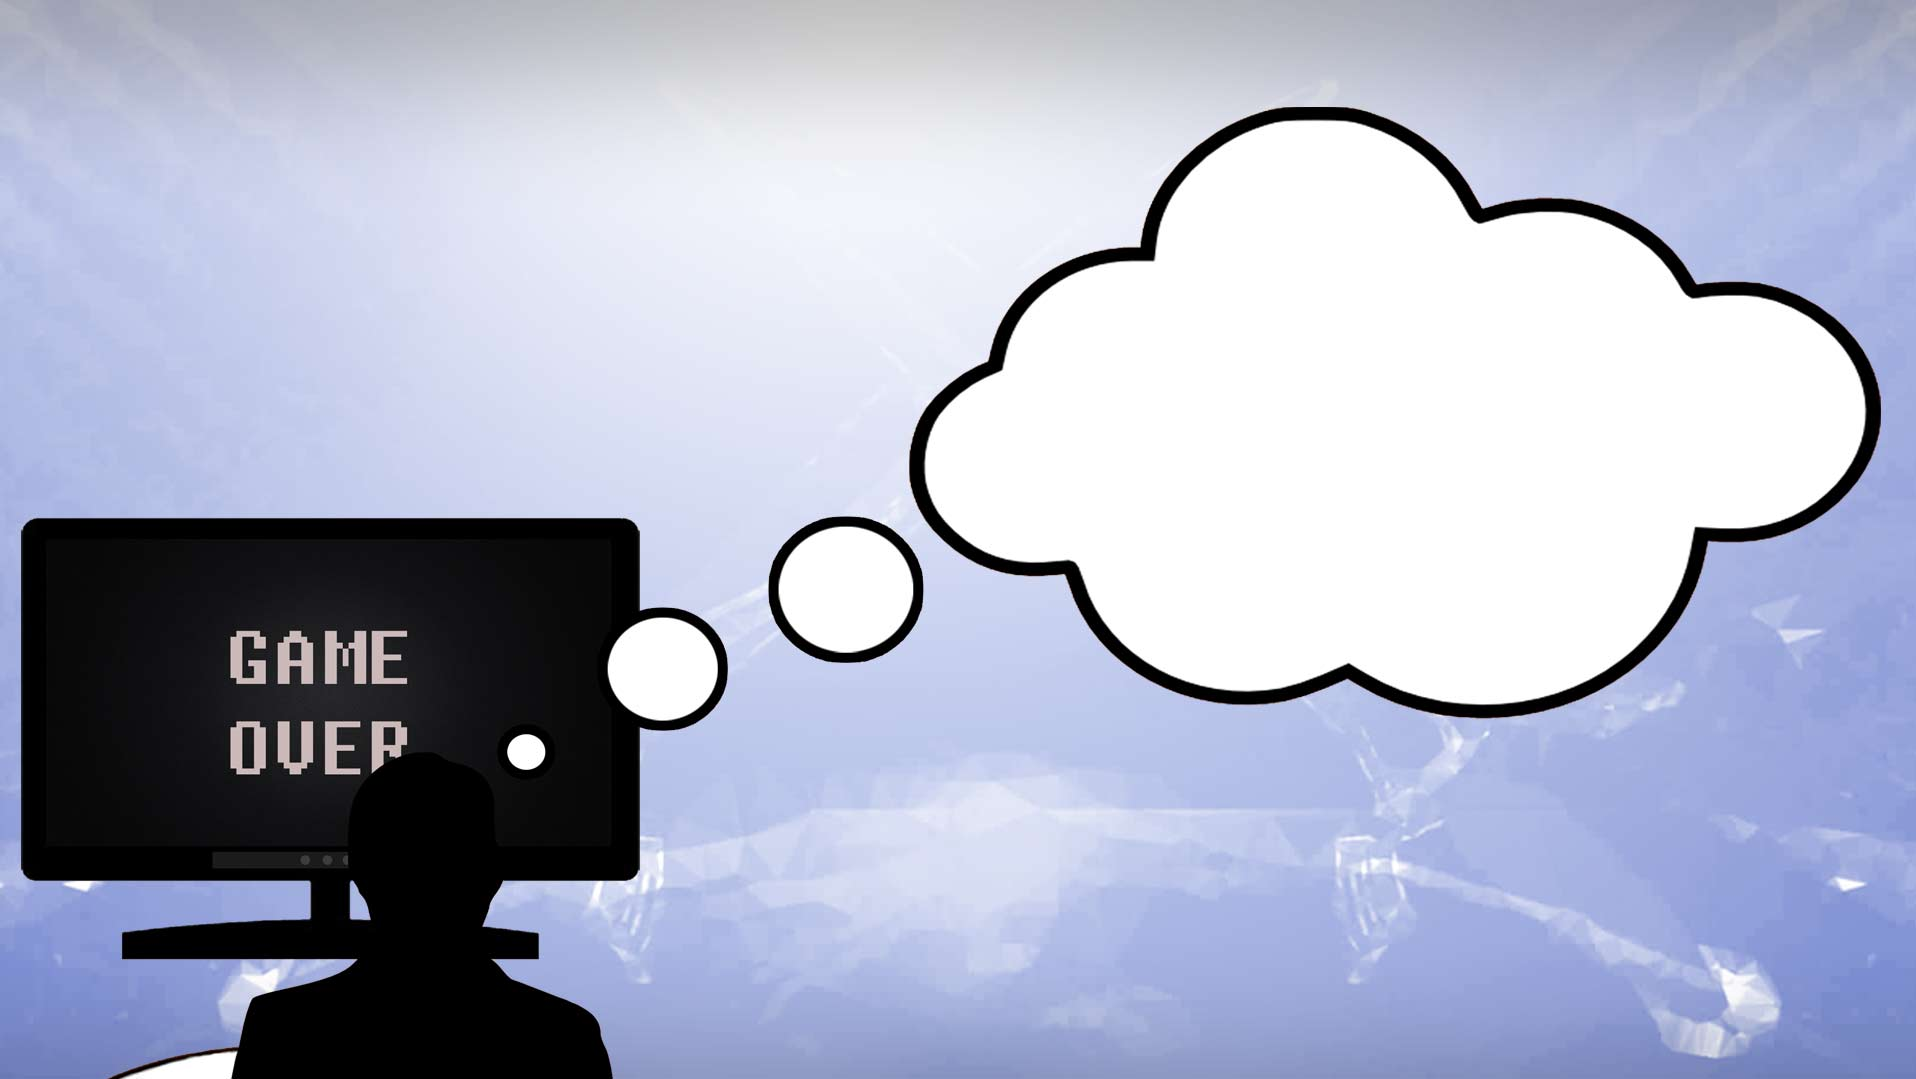
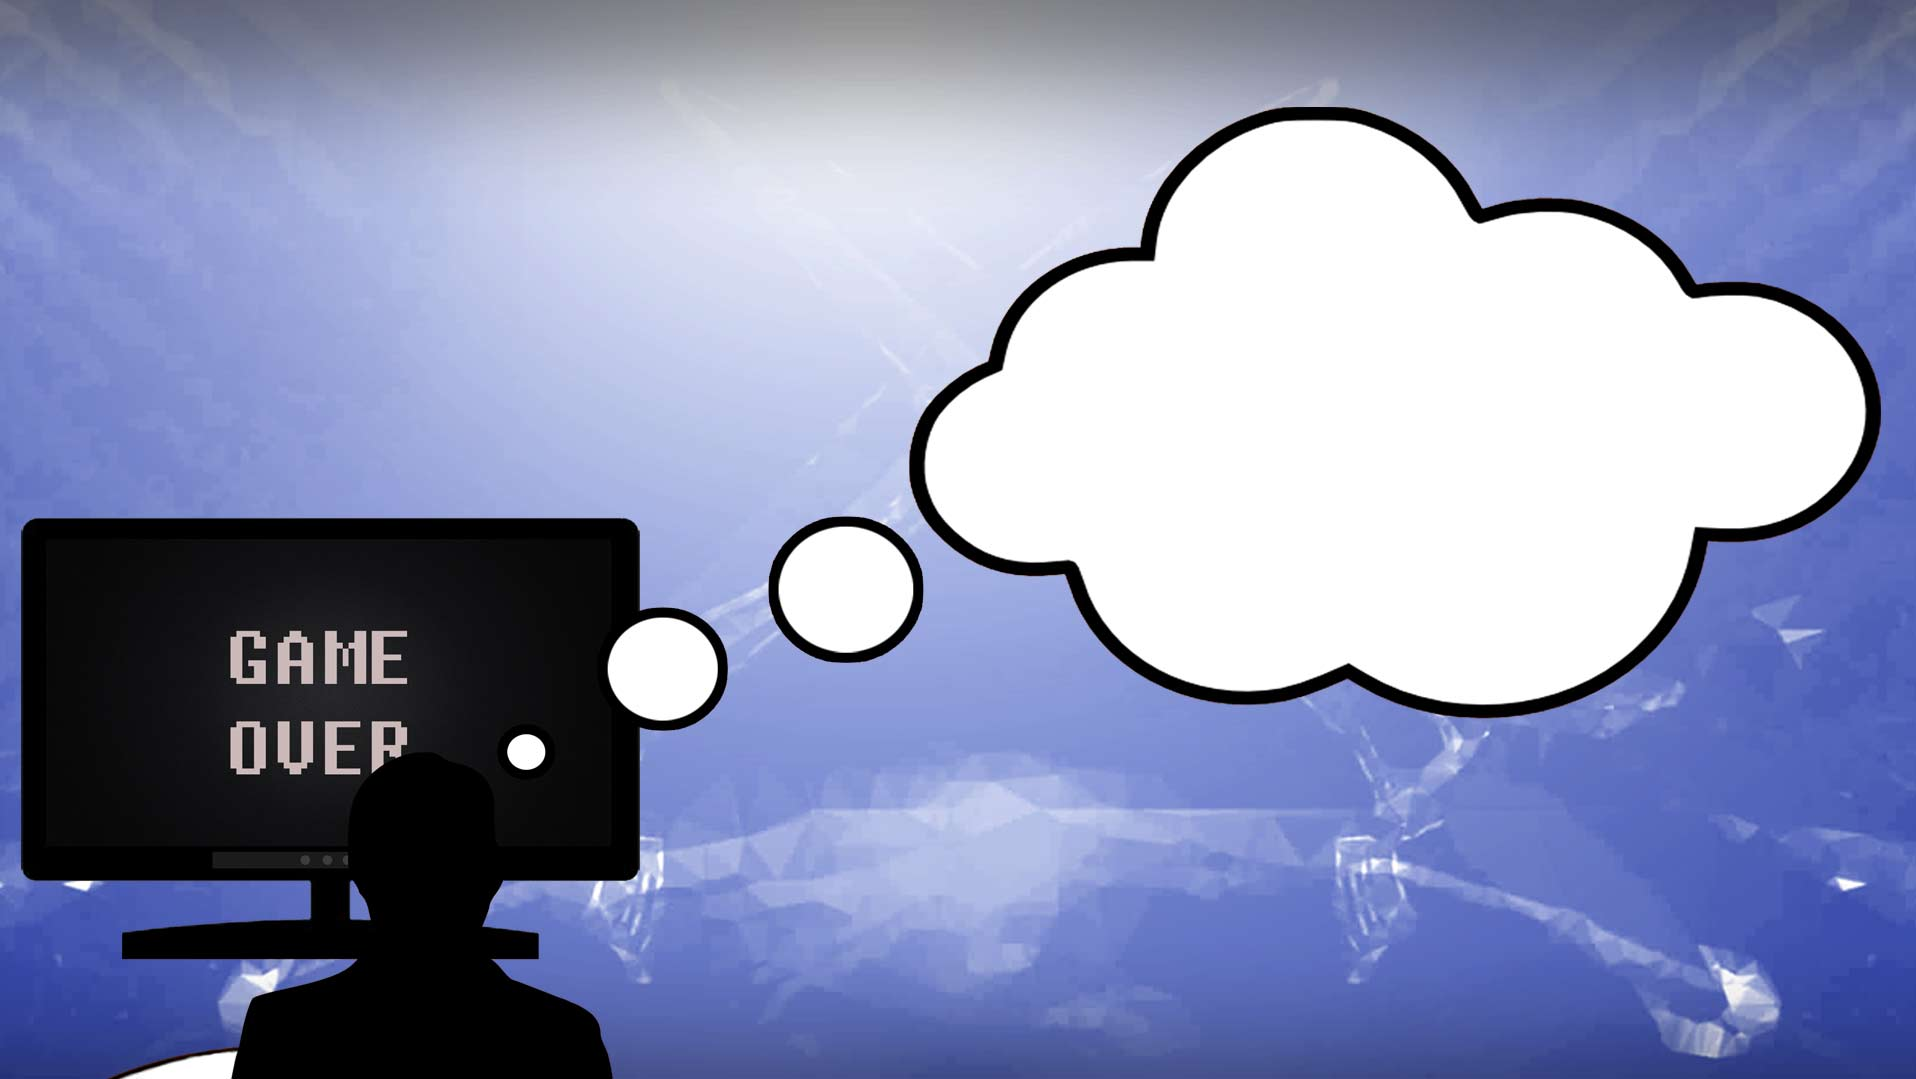
mer bg kontrast

diff --git a/css/style.css b/css/style.css
@@ -129,17 +129,17 @@ body {
 
 /* Sets background color to gradient between the rust red in the bottom to the black color at the top */
 .bg-gradient-brown {
-  background: -webkit-linear-gradient(#e5e9f7, #6c78a7);
-  background: -o-linear-gradient(#e5e9f7, #6c78a7); /* For Opera 11.1 to 12.0 */
-  background: -moz-linear-gradient(#e5e9f7, #6c78a7); /* For Firefox 3.6 to 15 */
-  background: linear-gradient(#e5e9f7, #6c78a7); /* Standard syntax (must be last) */
+  background: -webkit-linear-gradient(#e5e9f7, #5164be);
+  background: -o-linear-gradient(#e5e9f7, #5164be); /* For Opera 11.1 to 12.0 */
+  background: -moz-linear-gradient(#e5e9f7, #5164be); /* For Firefox 3.6 to 15 */
+  background: linear-gradient(#e5e9f7, #5164be); /* Standard syntax (must be last) */
 }
 /* Sets background color to gradient between the black in the bottom to the rust red color at the top */
 .bg-gradient-black {
-  background: -webkit-linear-gradient(#6c78a7, #e5e9f7);
-  background: -o-linear-gradient(#6c78a7, #e5e9f7); /* For Opera 11.1 to 12.0 */
-  background: -moz-linear-gradient(#6c78a7, #e5e9f7); /* For Firefox 3.6 to 15 */
-  background: linear-gradient(#6c78a7, #e5e9f7); /* Standard syntax (must be last) */
+  background: -webkit-linear-gradient(#5164be, #e5e9f7);
+  background: -o-linear-gradient(#5164be, #e5e9f7); /* For Opera 11.1 to 12.0 */
+  background: -moz-linear-gradient(#5164be, #e5e9f7); /* For Firefox 3.6 to 15 */
+  background: linear-gradient(#5164be, #e5e9f7); /* Standard syntax (must be last) */
 }
 /* Sets background to black translucent */
 .bg-gradient-black-trans {
@@ -409,10 +409,10 @@ margin-left:0;
   text-shadow: 0 1px 1px #111;
   border-top: 1px solid #363636;
   border-bottom: 1px solid #202020;
-  background: -webkit-linear-gradient(#6c78a7, #e5e9f7); /* For Safari 5.1 to 6.0 */
-  background: -o-linear-gradient(#6c78a7, #e5e9f7); /* For Opera 11.1 to 12.0 */
-  background: -moz-linear-gradient(#6c78a7, #e5e9f7); /* For Firefox 3.6 to 15 */
-  background: linear-gradient(#6c78a7, #e5e9f7); /* Standard syntax (must be last) */
+  background: -webkit-linear-gradient(#5164be, #e5e9f7); /* For Safari 5.1 to 6.0 */
+  background: -o-linear-gradient(#5164be, #e5e9f7); /* For Opera 11.1 to 12.0 */
+  background: -moz-linear-gradient(#5164be, #e5e9f7); /* For Firefox 3.6 to 15 */
+  background: linear-gradient(#5164be, #e5e9f7); /* Standard syntax (must be last) */
   border-radius: 2px 2px 0 0;
   box-shadow: 0 1px 3px rgba(0,0,0,0.3);
 }
@@ -762,10 +762,10 @@ a.text-primary:hover {
   text-shadow: 0 1px 1px #333;
 	border-top: 1px solid #e5e9f7;
   border-bottom: 1px solid #6c78a7;
-  background: -webkit-linear-gradient(#6c78a7, #e5e9f7); /* For Safari 5.1 to 6.0 */
-  background: -o-linear-gradient(#6c78a7, #e5e9f7); /* For Opera 11.1 to 12.0 */
-  background: -moz-linear-gradient(#6c78a7, #e5e9f7); /* For Firefox 3.6 to 15 */
-  background: linear-gradient(#6c78a7, #e5e9f7); /* Standard syntax (must be last) */
+  background: -webkit-linear-gradient(#5164be, #e5e9f7); /* For Safari 5.1 to 6.0 */
+  background: -o-linear-gradient(#5164be, #e5e9f7); /* For Opera 11.1 to 12.0 */
+  background: -moz-linear-gradient(#5164be, #e5e9f7); /* For Firefox 3.6 to 15 */
+  background: linear-gradient(#5164be, #e5e9f7); /* Standard syntax (must be last) */
   border-radius: 2px 2px 0 0;
   box-shadow: 0 1px 3px rgba(0,0,0,0.3);
 }
@@ -989,10 +989,10 @@ color: #fff;
 .dropdown-menu2 > li > a:visited {
   color: #fff;
   text-decoration: none;
-  background: -webkit-linear-gradient(90deg, #e5e9f7, #6c78a7); /* For Safari 5.1 to 6.0 */
-  background: -o-linear-gradient(90deg, #e5e9f7, #6c78a7); /* For Opera 11.1 to 12.0 */
-  background: -moz-linear-gradient(90deg, #e5e9f7, #6c78a7); /* For Firefox 3.6 to 15 */
-  background: linear-gradient(90deg, #e5e9f7, #6c78a7); /* Standard syntax (must be last) */
+  background: -webkit-linear-gradient(90deg, #e5e9f7, #5164be); /* For Safari 5.1 to 6.0 */
+  background: -o-linear-gradient(90deg, #e5e9f7, #5164be); /* For Opera 11.1 to 12.0 */
+  background: -moz-linear-gradient(90deg, #e5e9f7, #5164be); /* For Firefox 3.6 to 15 */
+  background: linear-gradient(90deg, #e5e9f7, #5164be); /* Standard syntax (must be last) */
 }
 
 /* hover farg på dropdown meny nar den ar aktiv */
@@ -1002,7 +1002,7 @@ color: #fff;
 .dropdown-menu > .active > a:visited {
   color: #fff;
   text-decoration: none;
-  background-color: #6c78a7;
+  background-color: #5164be;
   outline: 0;
 }
 
@@ -1014,10 +1014,10 @@ color: #fff;
 }
 
 @dropdown-link-hover-bg {
-background: -webkit-linear-gradient(90deg, #e5e9f7, #6c78a7); /* For Safari 5.1 to 6.0 */
-    background: -o-linear-gradient(90deg, #e5e9f7, #6c78a7); /* For Opera 11.1 to 12.0 */
-    background: -moz-linear-gradient(90deg, #e5e9f7, #6c78a7); /* For Firefox 3.6 to 15 */
-    background: linear-gradient(90deg, #e5e9f7, #6c78a7); /* Standard syntax (must be last) */
+background: -webkit-linear-gradient(90deg, #e5e9f7, #5164be); /* For Safari 5.1 to 6.0 */
+    background: -o-linear-gradient(90deg, #e5e9f7, #5164be); /* For Opera 11.1 to 12.0 */
+    background: -moz-linear-gradient(90deg, #e5e9f7, #5164be); /* For Firefox 3.6 to 15 */
+    background: linear-gradient(90deg, #e5e9f7, #5164be); /* Standard syntax (must be last) */
 }
 
 /* transparent gradient */
